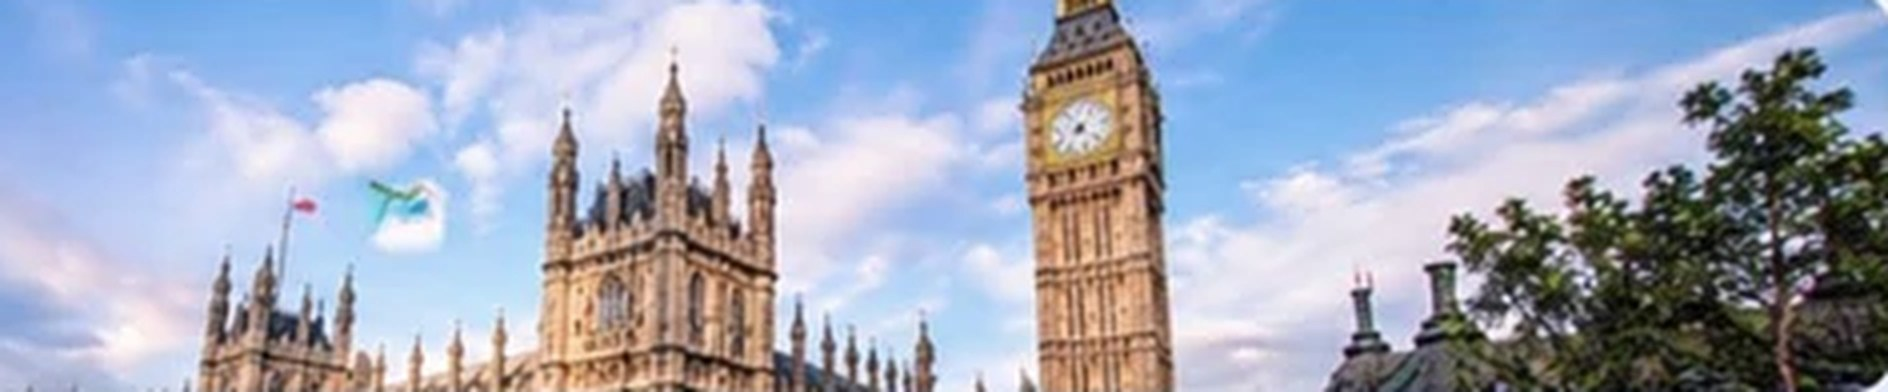
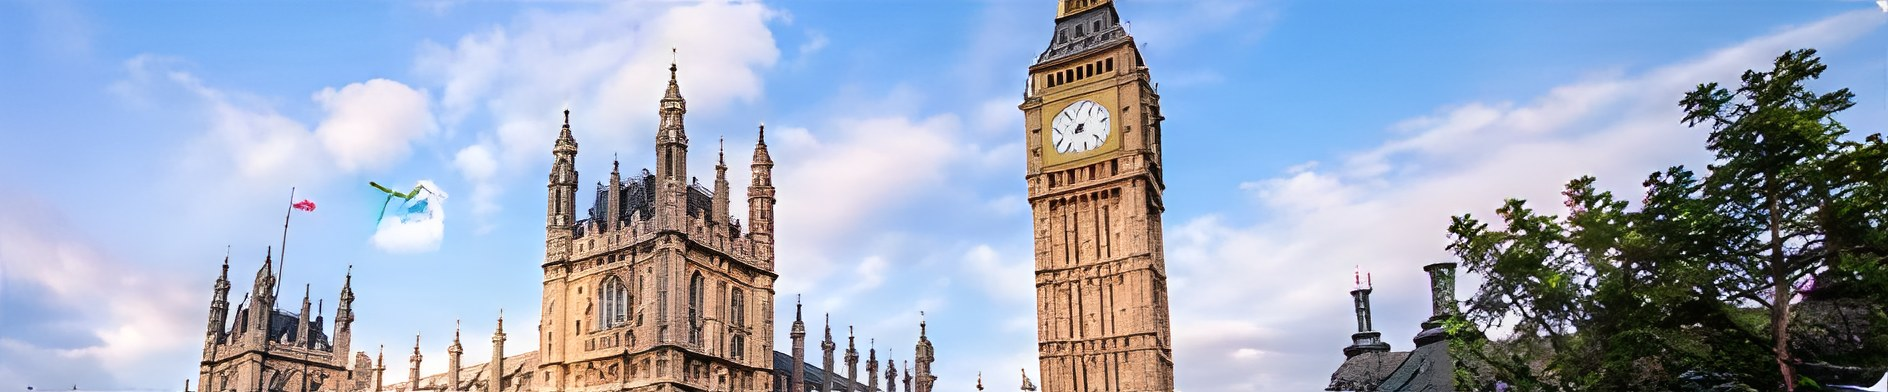
Inicio: fotos ampliadas x4 con IA (Real-ESRGAN) y velo más ligero
Claude-Session: https://claude.ai/code/session_01YUuA2NRtxwiNdv3SFwtkxJ

diff --git a/style.css b/style.css
@@ -56,7 +56,7 @@ h1,h2,h3,h4{font-weight:600;line-height:var(--lh-tight)}
 .hm-hero{position:relative;overflow:hidden;border-radius:14px;background:linear-gradient(120deg,#10214A 0%,#1D3F8F 70%,#2E57C2 100%);color:#fff;padding:28px 32px;display:flex;align-items:center;gap:20px;min-height:150px}
 .hm-hero::after{content:"";position:absolute;left:0;right:0;bottom:0;height:4px;background:linear-gradient(90deg,#C8202F 0 33%,#fff 33% 66%,#8FB0F5 66%)}
 .hm-photo{position:absolute;top:0;right:0;bottom:0;width:54%;background:url(assets/home-banner.jpg) right center/cover no-repeat;-webkit-mask-image:linear-gradient(90deg,transparent 0,#000 38%);mask-image:linear-gradient(90deg,transparent 0,#000 38%)}
-.hm-photo::after,.hm-promo::after{content:"";position:absolute;inset:0;pointer-events:none;background:linear-gradient(0deg,rgba(16,33,74,.22),rgba(16,33,74,.22)),radial-gradient(rgba(255,255,255,.07) 1px,transparent 1.2px) 0 0/3px 3px}
+.hm-photo::after,.hm-promo::after{content:"";position:absolute;inset:0;pointer-events:none;background:rgba(16,33,74,.12)}
 .hm-promo-tx{z-index:1}.hm-promo::after{left:40%;-webkit-mask-image:linear-gradient(90deg,transparent 0,#000 40%);mask-image:linear-gradient(90deg,transparent 0,#000 40%)}
 .hm-hero-tx{position:relative;display:flex;flex-direction:column;gap:6px;flex:1;min-width:0}
 .hm-hero h2{margin:0;font-family:var(--font-display);font-size:30px;font-weight:600;letter-spacing:-.01em}

diff --git a/tools/generar_pantallas.py b/tools/generar_pantallas.py
@@ -4374,7 +4374,7 @@ h1,h2,h3,h4{font-weight:600;line-height:var(--lh-tight)}
 .hm-hero{position:relative;overflow:hidden;border-radius:14px;background:linear-gradient(120deg,#10214A 0%,#1D3F8F 70%,#2E57C2 100%);color:#fff;padding:28px 32px;display:flex;align-items:center;gap:20px;min-height:150px}
 .hm-hero::after{content:"";position:absolute;left:0;right:0;bottom:0;height:4px;background:linear-gradient(90deg,#C8202F 0 33%,#fff 33% 66%,#8FB0F5 66%)}
 .hm-photo{position:absolute;top:0;right:0;bottom:0;width:54%;background:url(assets/home-banner.jpg) right center/cover no-repeat;-webkit-mask-image:linear-gradient(90deg,transparent 0,#000 38%);mask-image:linear-gradient(90deg,transparent 0,#000 38%)}
-.hm-photo::after,.hm-promo::after{content:"";position:absolute;inset:0;pointer-events:none;background:linear-gradient(0deg,rgba(16,33,74,.22),rgba(16,33,74,.22)),radial-gradient(rgba(255,255,255,.07) 1px,transparent 1.2px) 0 0/3px 3px}
+.hm-photo::after,.hm-promo::after{content:"";position:absolute;inset:0;pointer-events:none;background:rgba(16,33,74,.12)}
 .hm-promo-tx{z-index:1}.hm-promo::after{left:40%;-webkit-mask-image:linear-gradient(90deg,transparent 0,#000 40%);mask-image:linear-gradient(90deg,transparent 0,#000 40%)}
 .hm-hero-tx{position:relative;display:flex;flex-direction:column;gap:6px;flex:1;min-width:0}
 .hm-hero h2{margin:0;font-family:var(--font-display);font-size:30px;font-weight:600;letter-spacing:-.01em}

diff --git a/docs/DECISIONES.md b/docs/DECISIONES.md
@@ -113,4 +113,4 @@ Dirección Comercial no encontró en el prototipo lo que había pedido por corre
 - **Portal en celular con barra inferior (16 nov)**: a 700 px o menos el portal no usa pestañas: barra inferior fija tipo app (Inicio, Cursos, Asistencia, Notas, Pagos) con la sección activa marcada; "Mis datos" se abre desde el avatar de la cabecera (como el perfil de una app) y ahí está "Cerrar sesión". Cabecera compacta (logo, etiqueta de propuesta abreviada, avatar). En escritorio siguen las pestañas.
 - **Inicio como dashboard (16 nov)**: sin "Accesos rápidos" (repetía el menú). Arriba la franja de métricas clave (Administración: estudiantes activos, ventas del mes vs meta, cobrado del mes, ocupación de cursos, matrículas con saldo, aprobaciones pendientes); debajo, los pendientes del día junto al gráfico de ventas y el mix del mes. En celular el asistente flotante se oculta (queda el acceso "Asistente" de la barra superior) para no tapar botones. Favicon con la bandera del logo.
 - **Nuevo Inicio y menú lateral oscuro (16 nov)**: el cliente compartió una referencia visual de Inicio que le gusta; se adaptó (no se copió) a la identidad de Cambridge: banner de bienvenida con silueta de ciudad dibujada y franja roja/blanca/celeste de la bandera, 5 cifras clave con ícono de color, tendencia y minigráfico, pendientes con ícono y estado, gráfico de matrículas con 6M/12M/24M, mix del mes, variación mensual y tarjeta de meta con ilustración de birrete (sin fotos de stock). Menú lateral azul oscuro con logo en blanco en toda la plataforma. Es una excepción acordada a la regla "el color solo comunica estado", limitada a Inicio.
-- **Fotos en Inicio (16 nov)**: a pedido del cliente, el banner de bienvenida y la tarjeta de meta usan las fotos de su referencia (Londres y estudiante) en lugar de ilustraciones dibujadas: `assets/home-banner.jpg` y `assets/home-estudiante.jpg`, fundidas con `mask-image` sobre el azul; en móvil la foto del banner baja de opacidad para que el texto se lea.
+- **Fotos en Inicio (16 nov)**: a pedido del cliente, el banner de bienvenida y la tarjeta de meta usan las fotos de su referencia (Londres y estudiante) en lugar de ilustraciones dibujadas: `assets/home-banner.jpg` y `assets/home-estudiante.jpg` (recortes de la referencia ampliados ×4 con Real-ESRGAN; la estudiante mezclada al 50 % con un reescalado suave para evitar artefactos en la cara), fundidas con `mask-image` sobre el azul; en móvil la foto del banner baja de opacidad para que el texto se lea.
